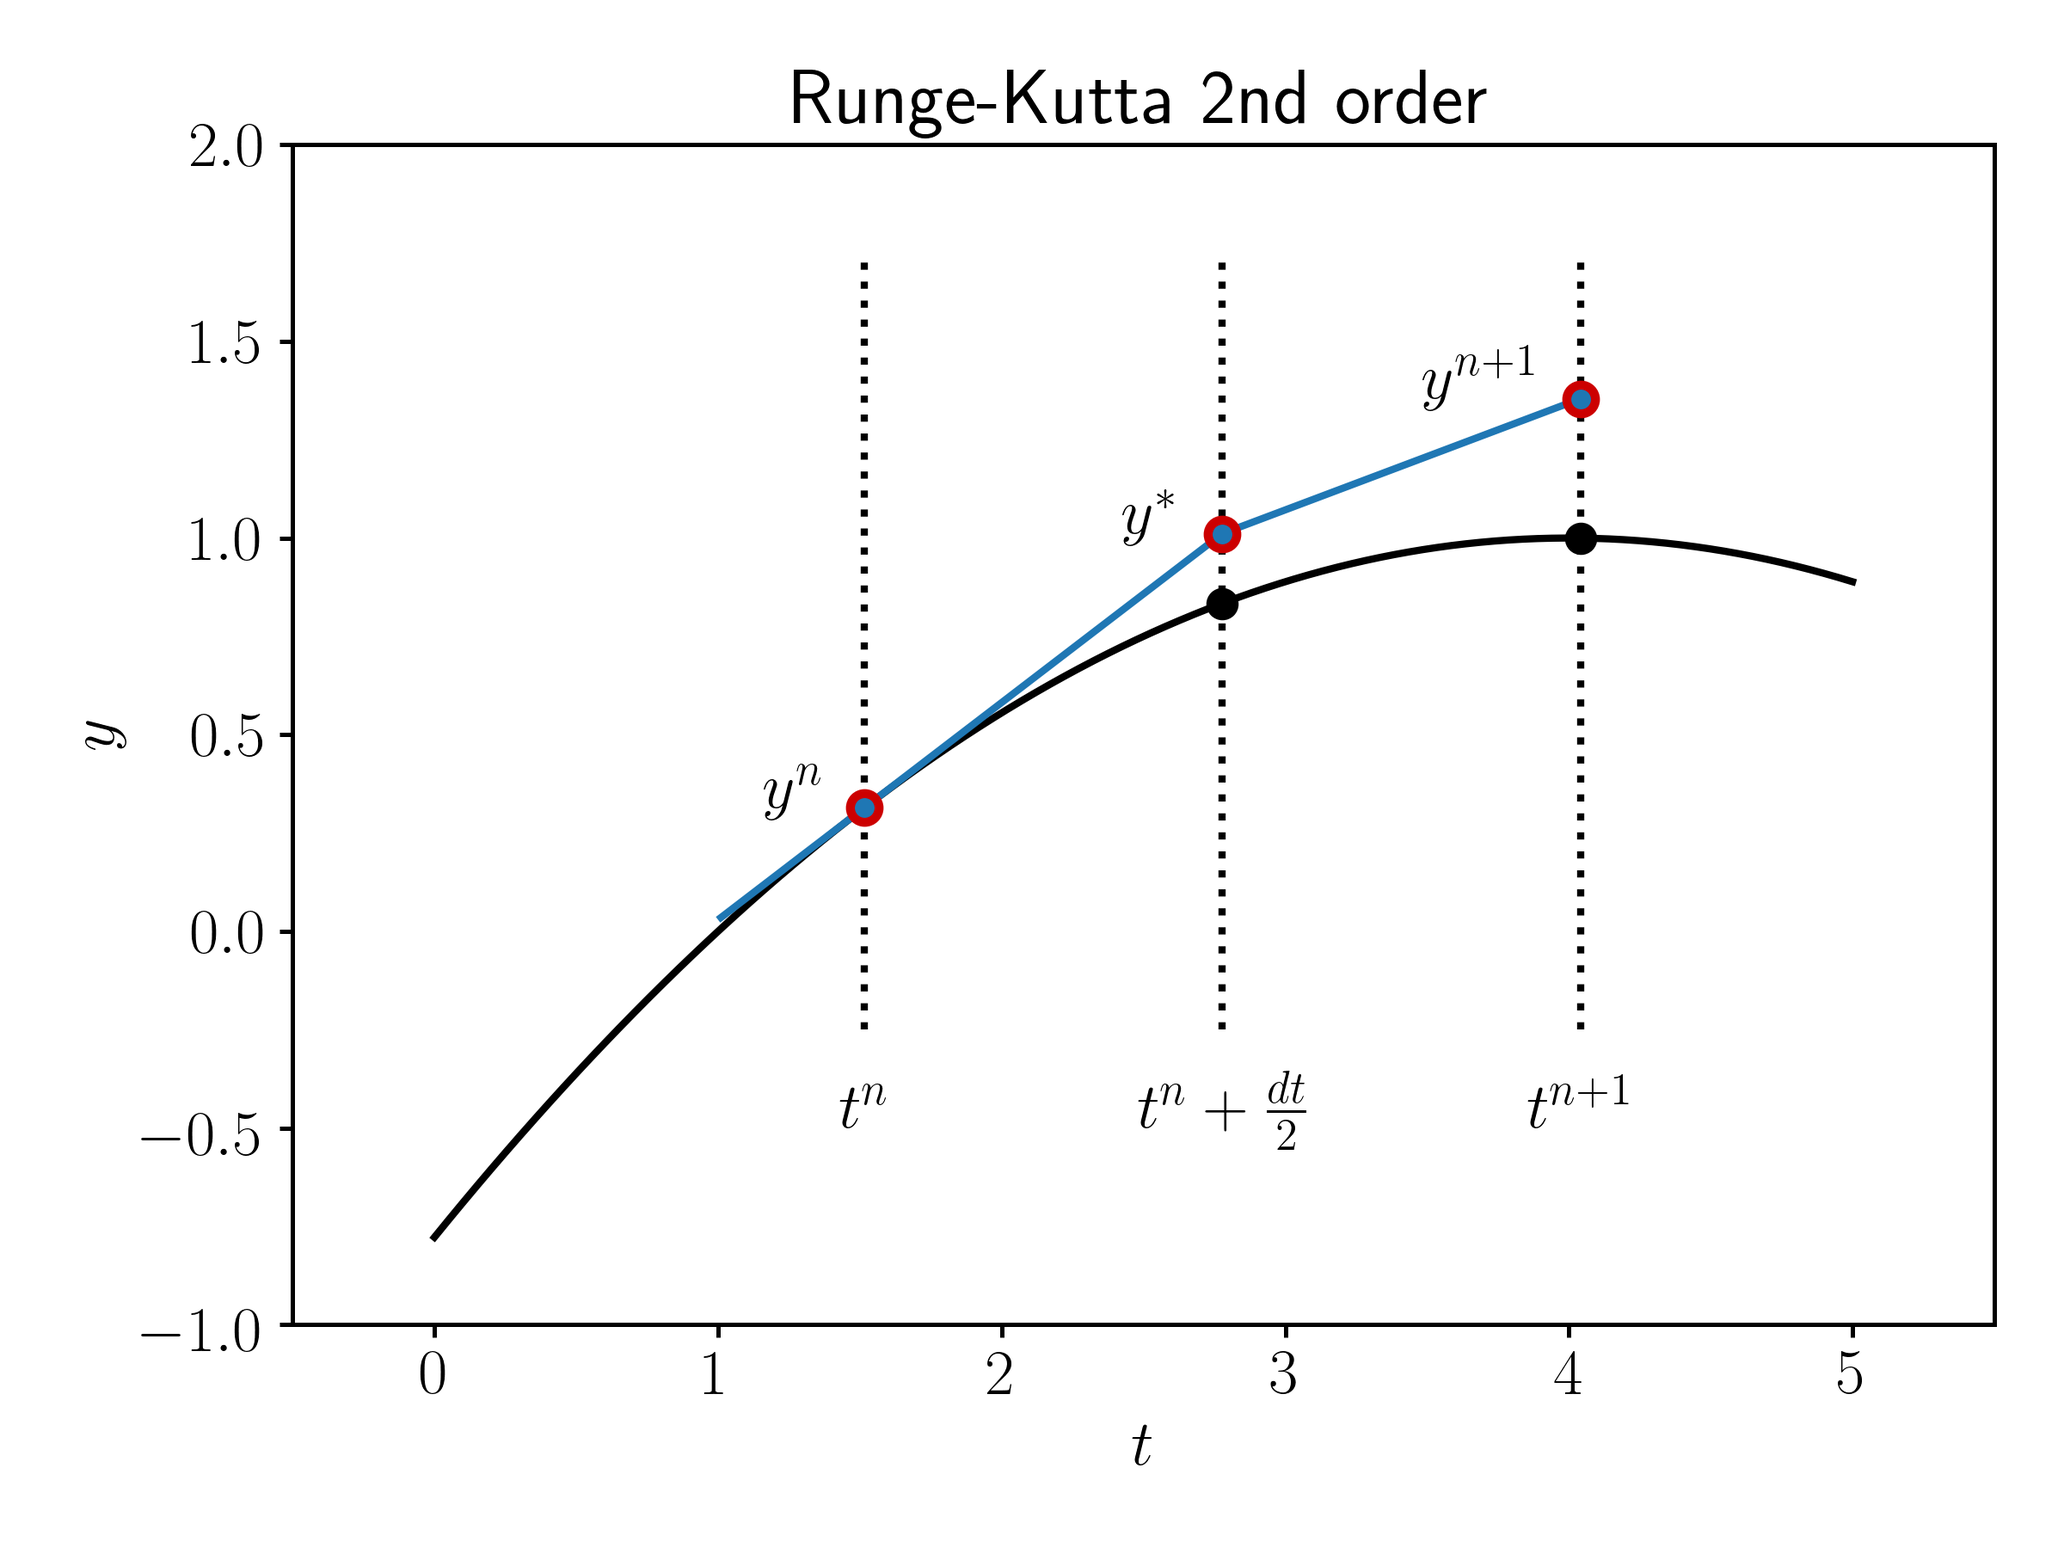
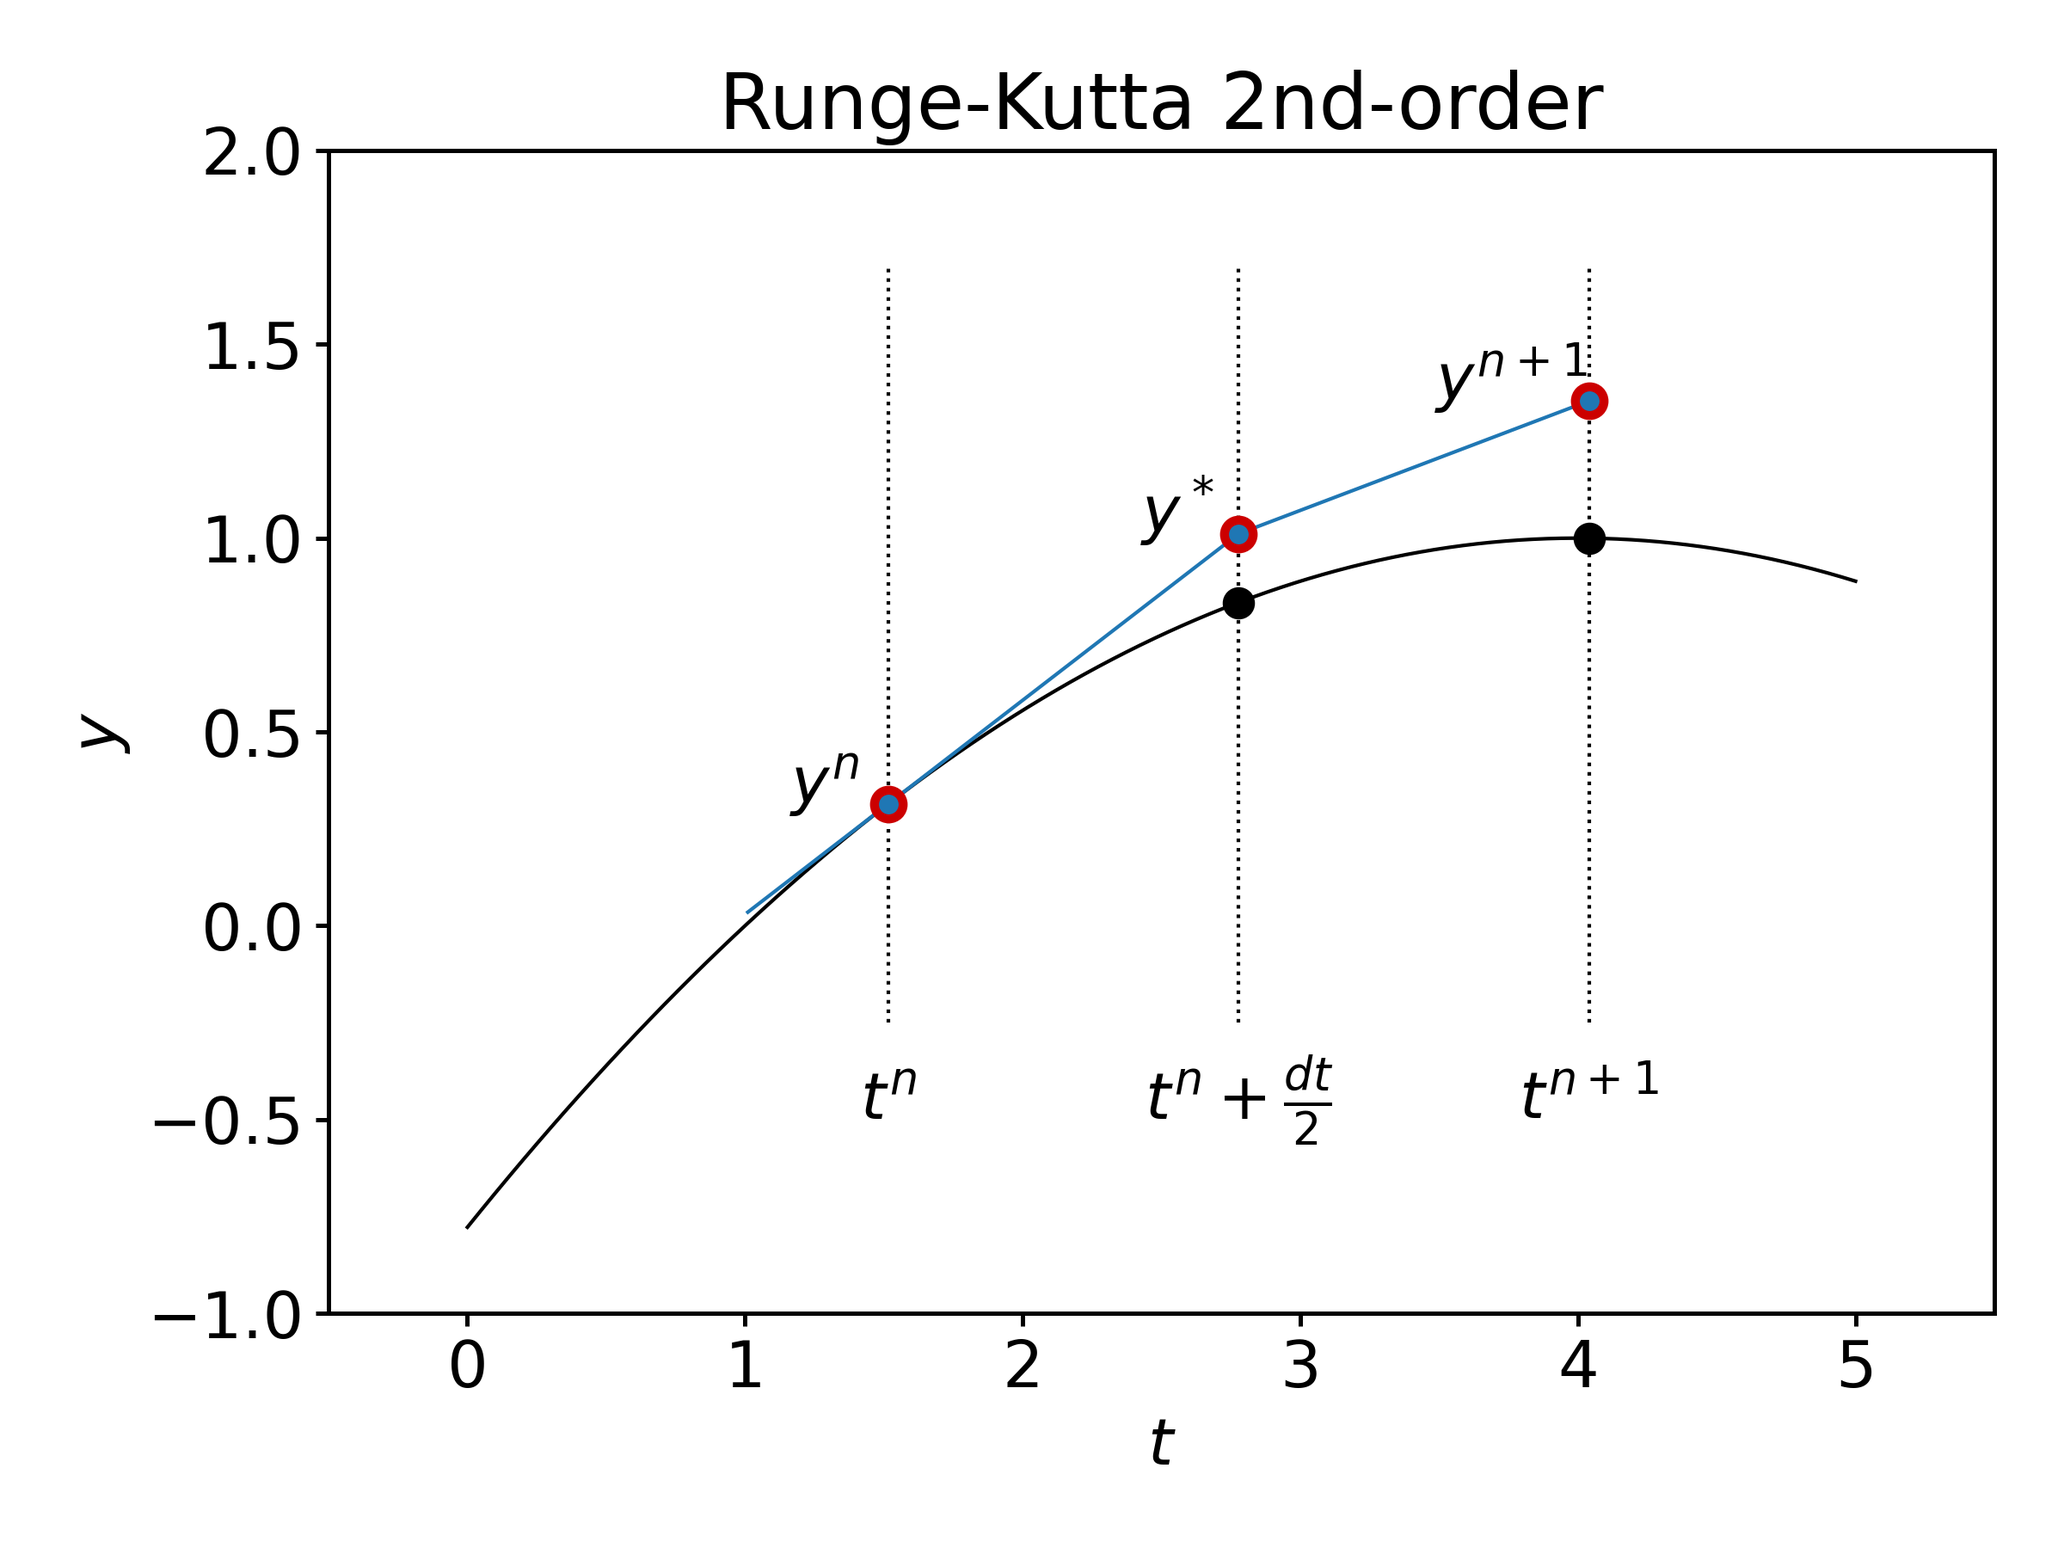
first order -> first-order etc path fixes

diff --git a/notebooks/02_TimeIntegration/02_02_RungeKutta.md b/notebooks/02_TimeIntegration/02_02_RungeKutta.md
@@ -50,7 +50,7 @@ plt.style.use('../styles/mainstyle.use')
 <!-- #region -->
 In the previous notebook we have considered the forward and the backward Euler schemes to time march ordinary differential equations. We have discussed the concept of stability and estimated the accuracy of numerical schemes with respect to the size of the time step.
 
-Here we introduce some more accurate methods with larger domains of stability, that are, therefore, applicable in more complex situations. We only consider systems of first order differential equations as problems containing higher order derivatives may be reduced to such systems. Our system of equations thus reads,
+Here we introduce some more accurate methods with larger domains of stability, that are, therefore, applicable in more complex situations. We only consider systems of first-order differential equations as problems containing higher-order derivatives may be reduced to such systems. Our system of equations thus reads,
 
 \begin{align}
     y'(t)=f(t,y)
@@ -85,7 +85,7 @@ so that,
     y^{n+1} = y^n + dt f(t^n+\frac{dt}{2},y^*) \label{RK2ynp1}
 \end{align}
 
-In notebook 1.1, we discussed the fact that the forward Euler method is second order accurate for one time step and first order accurate for a complete time interval. Here, we hope to improve the accuracy. Let's check that this is true by evaluating the Taylor expansion of $y^{n+1}$ in $\eqref{RK2ynp1}$.
+In notebook 1.1, we discussed the fact that the forward Euler method is second-order accurate for one time step and first-order accurate for a complete time interval. Here, we hope to improve the accuracy. Let's check that this is true by evaluating the Taylor expansion of $y^{n+1}$ in $\eqref{RK2ynp1}$.
 
 \begin{align}
  y^{n+1} & = y^n + dt f(t^n+\frac{dt}{2},y^n + \frac{dt}{2}f(t^n, y^n)) \nonumber \\
@@ -93,7 +93,7 @@ In notebook 1.1, we discussed the fact that the forward Euler method is second o
          & = y^n + dt y^{'n} + \frac{dt^2}{2}y^{''n} + O(dt^3), \label{TaylorRK2}
 \end{align}
 
-where we have used the property: $y''=\partial_t f + f\partial_y f$. Eq. \ref{TaylorRK2} proves that the two-stage Runge-Kutta method is third-order for one time step and, as a consequence, it is expected to be second-order accurate for a complete time interval (we leave it as an exercise to show that this two stage Runge-Kutta scheme does not match further the Taylor expansion of $y^{n+1}$, and is, therefore, not of higher order accuracy). 
+where we have used the property: $y''=\partial_t f + f\partial_y f$. Eq. \ref{TaylorRK2} proves that the two-stage Runge-Kutta method is third-order for one time step and, as a consequence, it is expected to be second-order accurate for a complete time interval (we leave it as an exercise to show that this two stage Runge-Kutta scheme does not match further the Taylor expansion of $y^{n+1}$, and is, therefore, not of higher-order accuracy). 
 
 ### Numerical stability of a two-stage Runge-Kutta scheme
 
@@ -251,7 +251,7 @@ General Runge-Kutta schemes are defined as follows \cite{Hairer1987}:
 
 Some constraints are then put on all the coefficients to achieve a given order of accuracy $O(dt^p)$ for $y^{n+1}$. One says that the $s$-stage Runge-Kutta method is of order $p$.
 
-The construction of higher order Runge-Kutta schemes is in fact quite complicated, and has been the subject of a vast literature (some in depth review of the Runge-Kutta methods may be found in \cite{Butcher2008} or \cite{Hairer1987}). There is no systematic way to obtain order $p$ methods with a minimum number of stages $s$. One can achieve order $p$ with $s=p$ up to $p=4$. For $p=5$ and $p=6$ one needs at least $s=p+1$ stages. For $p=7$ and $p=8$ the minimum number of stages are respectively $s=9$ and $s=11$.
+The construction of higher-order Runge-Kutta schemes is in fact quite complicated, and has been the subject of a vast literature (some in depth review of the Runge-Kutta methods may be found in \cite{Butcher2008} or \cite{Hairer1987}). There is no systematic way to obtain order $p$ methods with a minimum number of stages $s$. One can achieve order $p$ with $s=p$ up to $p=4$. For $p=5$ and $p=6$ one needs at least $s=p+1$ stages. For $p=7$ and $p=8$ the minimum number of stages are respectively $s=9$ and $s=11$.
 
 > Above this, very little is known \cite{Butcher1996}.
 
@@ -265,7 +265,7 @@ Therefore, we focus here our attention on a general purpose **fourth-order Runge
     k_4 & = dtf(t^n+dt,y^n+k_3)
 \end{align}
 
-For an autonomous linear system, it is straightforward to prove that this method is indeed fifth order accurate for one time step. After diagonalization, we have:
+For an autonomous linear system, it is straightforward to prove that this method is indeed fifth-order accurate for one time step. After diagonalization, we have:
 
 \begin{align}
   z^{n+1} & = z^n + \frac16 dt \Lambda z^n + \frac13 dt \Lambda (z^n + \frac12 dt \Lambda z^n ) + \frac13 dt \Lambda (z^n + \frac12 dt \Lambda (z^n + \frac12 dt \Lambda z^n)) \nonumber \\
@@ -273,7 +273,7 @@ For an autonomous linear system, it is straightforward to prove that this method
   & = z^n + dt \Lambda z^n + \frac{dt^2}{2}\Lambda^2 z^n + \frac{dt^3}6 \Lambda^3 z^n + \frac{dt^4}{24} \Lambda^4 z^n
 \end{align}
 
-The last expression coincides with the Taylor expansion of $z^{n+1}$ up to the fourth order. For a non-linear system, one can also prove that RK4 is fourth-order but it is a tedious task.
+The last expression coincides with the Taylor expansion of $z^{n+1}$ up to the fourth-order. For a non-linear system, one can also prove that RK4 is fourth-order but it is a tedious task.
 
 In terms of stability, we also see that the RK4 method is stable for a general autonomous linear system as long as all the eigenvalues of the operator $f$ satisfy,
 
@@ -436,7 +436,7 @@ We already pointed out that the forward Euler scheme is unstable if one of the e
 
 ## Implicit Runge-Kutta schemes
 
-We have discussed that explicit Runge-Kutta schemes become quite complicated as the order of accuracy increases. Implicit Runge-Kutta methods might appear to be even more of a headache, especially at higher order of accuracy $p$. We will give a very brief introduction into the subject, so that you get an impression.
+We have discussed that explicit Runge-Kutta schemes become quite complicated as the order of accuracy increases. Implicit Runge-Kutta methods might appear to be even more of a headache, especially at higher-order of accuracy $p$. We will give a very brief introduction into the subject, so that you get an impression.
 
 Generally speaking, RK methods can be defined as follows:
 
@@ -543,7 +543,7 @@ for axis in ax:
 
 ## Summary
 
-In this notebook we have introduced a family of Runge-Kutta explicit and implicit methods. While, we won't consider Runge-Kutta schemes of order higher than 4 in the course, we discussed the complexities one would face trying to construct equations for the coefficients $k_i$ for higher order schemes. We also gave insight into implicit Runge-Kutta schemes and provided an implementation of Qin and Zhang's second-order implicit method.
+In this notebook we have introduced a family of Runge-Kutta explicit and implicit methods. While, we won't consider Runge-Kutta schemes of order higher than 4 in the course, we discussed the complexities one would face trying to construct equations for the coefficients $k_i$ for higher-order schemes. We also gave insight into implicit Runge-Kutta schemes and provided an implementation of Qin and Zhang's second-order implicit method.
 
 With this we conclude the chapter dedicated to **Time integration**. In the following chapter we will consider the finite differences method to approximate derivatives in partial differential equations and convert them into a system of linear equations.
 
@@ -551,13 +551,13 @@ With this we conclude the chapter dedicated to **Time integration**. In the foll
 
 **Exercise 1.** Prove analytically that the two stage (explicit) Runge-Kutta scheme is not fourth-order accurate for one time step.
 
-**Exercise 2.** For the problem of a body in free fall, compare the solution obtained with the two-stage (explicit) Runge-Kutta scheme to the exact solution. Check that the method is second order accurate for a finite time interval.
+**Exercise 2.** For the problem of a body in free fall, compare the solution obtained with the two-stage (explicit) Runge-Kutta scheme to the exact solution. Check that the method is second-order accurate for a finite time interval.
 
 **Exercise 3.** Solve the problem of a body in free fall using the explicit RK4 method.
 
 **Exercise 4.** Solve again the equation of the harmonic oscillator using the explicit RK4 method and show that the solution is not blowing up (choose an appropriate time step).
 
-**Exercise 5.** Implement *Pareschi and Russo's two-stage 2nd order Diagonally Implicit Runge-Kutta method*. The relevant coefficients can be found on [Wikipedia][1].
+**Exercise 5.** Implement *Pareschi and Russo's two-stage 2nd-order Diagonally Implicit Runge-Kutta method*. The relevant coefficients can be found on [Wikipedia][1].
 
 [1]: <https://en.wikipedia.org/wiki/List_of_Runge–Kutta_methods> "list of RK"
 

diff --git a/notebooks/02_TimeIntegration/02_01_EulerMethod.md b/notebooks/02_TimeIntegration/02_01_EulerMethod.md
@@ -81,7 +81,7 @@ The most elementary time integration scheme - we also call these 'time advanceme
    & N(t+dt) \equiv N(t) + N'(t)dt & \textrm{Forward Euler method} \label{eq:ForwardEuler}
 \end{align}
 
-From this equation, we note that the forward Euler method is second order for going from $t$ to $t+dt$ (the dropped term in the Taylor expansion is $O(dt^2))$. Once the value of $N$ is known at time $t+dt$, one can re-use \eqref{eq:ForwardEuler} to reach time $t+2dt$ and so on.
+From this equation, we note that the forward Euler method is second-order for going from $t$ to $t+dt$ (the dropped term in the Taylor expansion is $O(dt^2))$. Once the value of $N$ is known at time $t+dt$, one can re-use \eqref{eq:ForwardEuler} to reach time $t+2dt$ and so on.
 
 Schematically, we therefore start the time marching procedure at the initial time $t_0$ and make a number of steps (called time steps) of size $dt$ until we reach the final desired time $t_f$. In order to do this, we need $n_t = (t_f - t_i)/dt$ steps.
 
@@ -335,11 +335,11 @@ ax.legend()
 # fig.savefig('../figures/eulerSlope.png', dpi=300)
 ```
 
-Do you notice something 'surprising' in this plot? Earlier we mentioned an accuracy of second order for the forward Euler method but here we observe an accuracy of first order. In fact, there is a straightforward explanation for this. We said "...that the forward Euler method is second order for going from $t$ to $t+dt$". Here we are comparing values after $N$ time steps with $\displaystyle N=\frac{t_f-t_i}{dt}$. The total error is proportional to the product of the error made at each time step multiplied by the number of steps. As the latter scales as $dt^{-1}$, the total error scales like $dt^2 / dt = dt$. One says that **the error made during one time step accumulates during the computation**.
+Do you notice something 'surprising' in this plot? Earlier we mentioned an accuracy of second-order for the forward Euler method but here we observe an accuracy of first-order. In fact, there is a straightforward explanation for this. We said "...that the forward Euler method is second-order for going from $t$ to $t+dt$". Here we are comparing values after $N$ time steps with $\displaystyle N=\frac{t_f-t_i}{dt}$. The total error is proportional to the product of the error made at each time step multiplied by the number of steps. As the latter scales as $dt^{-1}$, the total error scales like $dt^2 / dt = dt$. One says that **the error made during one time step accumulates during the computation**.
 
 ### Numerical stability of the forward Euler method
 
-For the radioactive decay equation, the forward Euler method does a decent job: when reducing the time step, the solution converges to the exact solution, albeit only with first order accuracy. Let us now focus on another crucial property of numerical schemes called *numerical stability*. 
+For the radioactive decay equation, the forward Euler method does a decent job: when reducing the time step, the solution converges to the exact solution, albeit only with first-order accuracy. Let us now focus on another crucial property of numerical schemes called *numerical stability*. 
 
 For the problem of radioactive decay, we first observe that according to equation \eqref{eq:ForwardEuler2} we have:
 
@@ -1155,7 +1155,7 @@ In the next notebook, we introduce some more efficient time advancement schemes 
 
 ## Exercises
 
-**Exercise 1.** Write a Python code and perform the corresponding visualization showing that for one time step, the forward Euler method is indeed of second order accuracy. 
+**Exercise 1.** Write a Python code and perform the corresponding visualization showing that for one time step, the forward Euler method is indeed of second-order accuracy. 
 
 **Exercise 2.** For the case of the body in free fall prove graphically, that both explicit and implicit Euler methods are first-order accurate for a finite time interval.
 

diff --git a/notebooks/drawings/supportPlots.md b/notebooks/drawings/supportPlots.md
@@ -6,7 +6,7 @@ jupyter:
       extension: .md
       format_name: markdown
       format_version: '1.2'
-      jupytext_version: 1.5.2
+      jupytext_version: 1.6.0
   kernelspec:
     display_name: 'Python 3.7.7 64-bit (''course'': conda)'
     language: python
@@ -18,7 +18,7 @@ import numpy as np
 
 import matplotlib.pyplot as plt
 %matplotlib inline
-plt.style.use('./mainstyle.use')
+plt.style.use('../styles/mainstyle.use')
 ```
 
 ## Forward Euler
@@ -68,7 +68,7 @@ ax.set_ylim(-1,2)
 
 # Save figure. Default format is png.
 # dpi defines the resolution in dots per inch.
-fig.savefig('figures/Euler.png', dpi=300)
+fig.savefig('../figures/Euler.png', dpi=300)
 ```
 
 ## RK2
@@ -120,14 +120,14 @@ ax.text(x[c-11], slope_b[c], r'$y^{n+1}$')
 # Final formatting
 ax.set_xlabel(r'$t$')
 ax.set_ylabel(r'$y$')
-ax.set_title('Runge-Kutta 2nd order')
+ax.set_title('Runge-Kutta 2nd-order')
 
 ax.set_xlim(-0.5,5.5)
 ax.set_ylim(-1,2)
 
 # Save figure. Default format is png.
 # dpi defines the resolution in dots per inch.
-fig.savefig('figures/RK2.png', dpi=300)
+fig.savefig('../figures/RK2.png', dpi=300)
 ```
 
 ```python

diff --git a/notebooks/drawings/stencils.md b/notebooks/drawings/stencils.md
@@ -6,7 +6,7 @@ jupyter:
       extension: .md
       format_name: markdown
       format_version: '1.2'
-      jupytext_version: 1.5.2
+      jupytext_version: 1.6.0
   kernelspec:
     display_name: 'Python 3.7.7 64-bit (''course'': conda)'
     language: python
@@ -18,7 +18,7 @@ import numpy as np
 
 import matplotlib.pyplot as plt
 %matplotlib inline
-plt.style.use('./style.use')
+plt.style.use('../styles/style.use')
 ```
 
 ## Basic sample
@@ -38,7 +38,7 @@ ax.text(2, 0.5, r'$i-1$', fontsize=18, horizontalalignment='center')
 ax.text(4, 0.5, r'$i$', fontsize=18, horizontalalignment='center')
 ax.text(6, 0.5, r'$i+1$', fontsize=18, horizontalalignment='center')
 
-fig.savefig('figures/sample.png', dpi=300)
+fig.savefig('../figures/sample.png', dpi=300)
 ```
 
 ## Taylor's theorem
